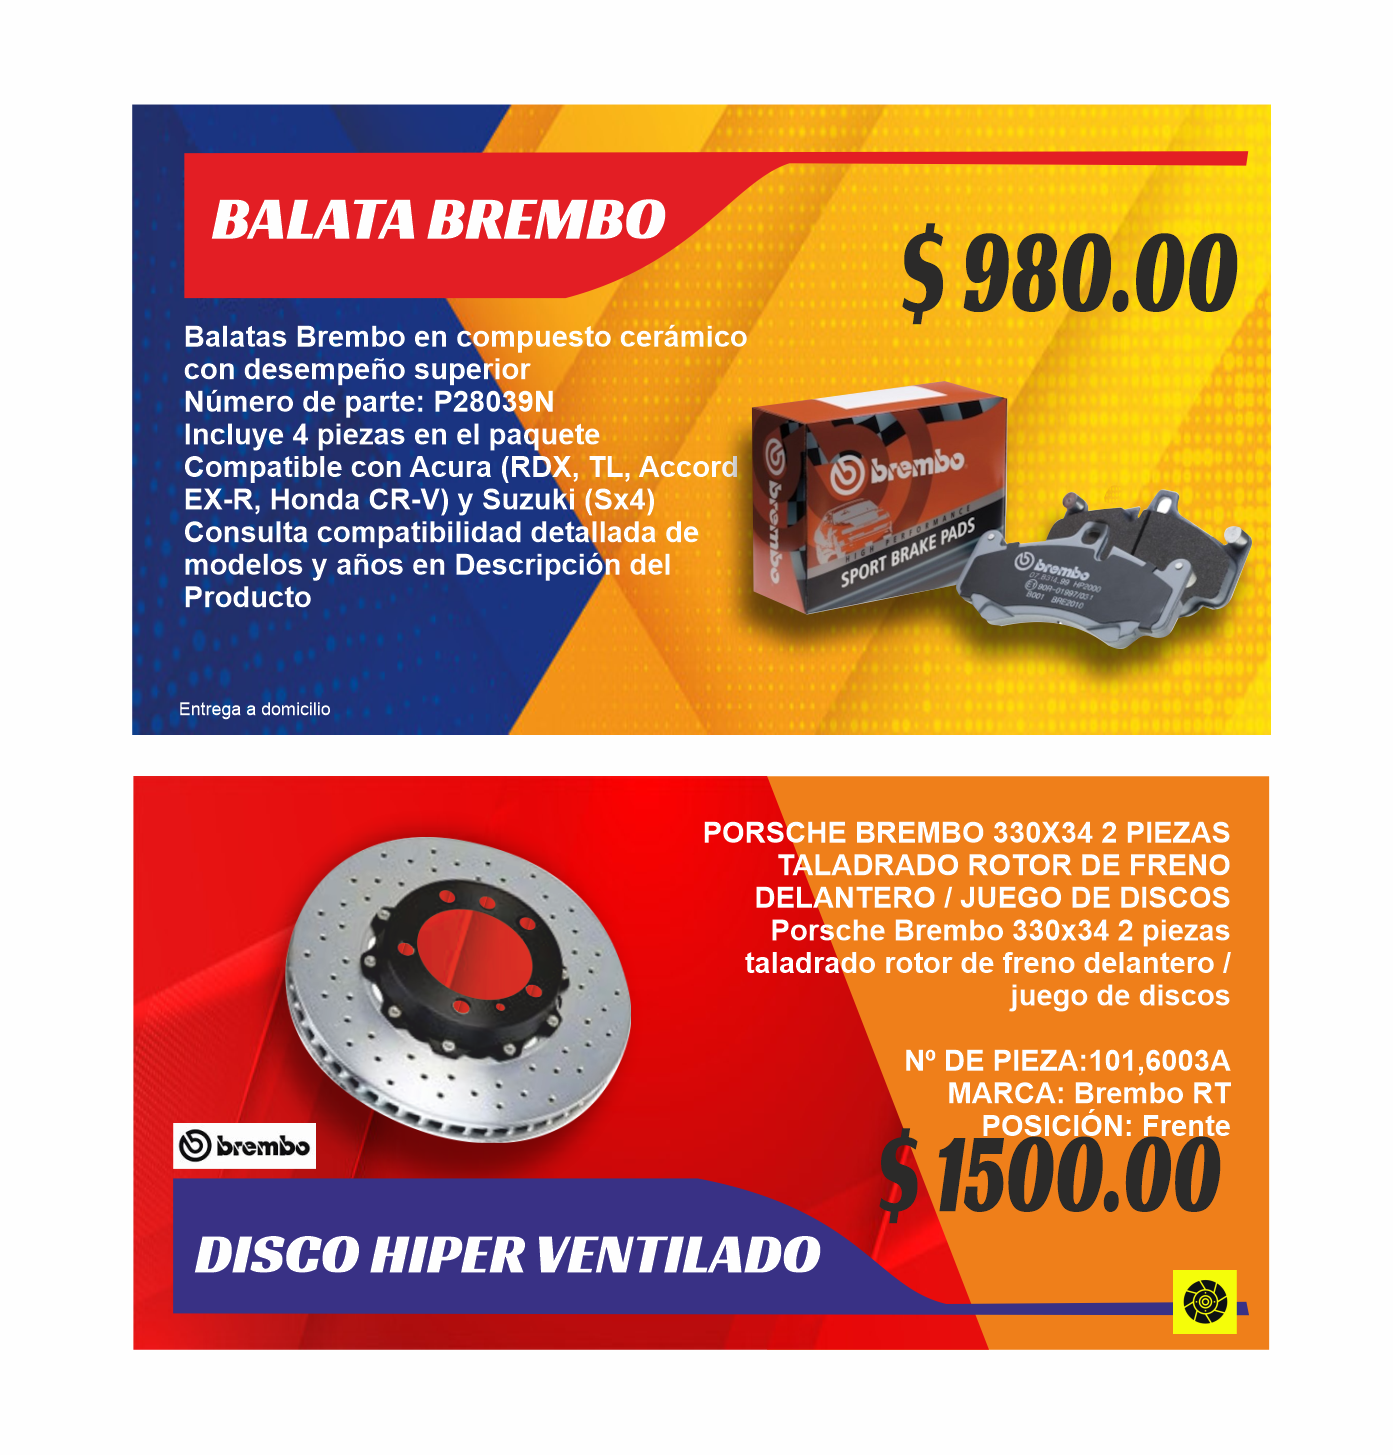
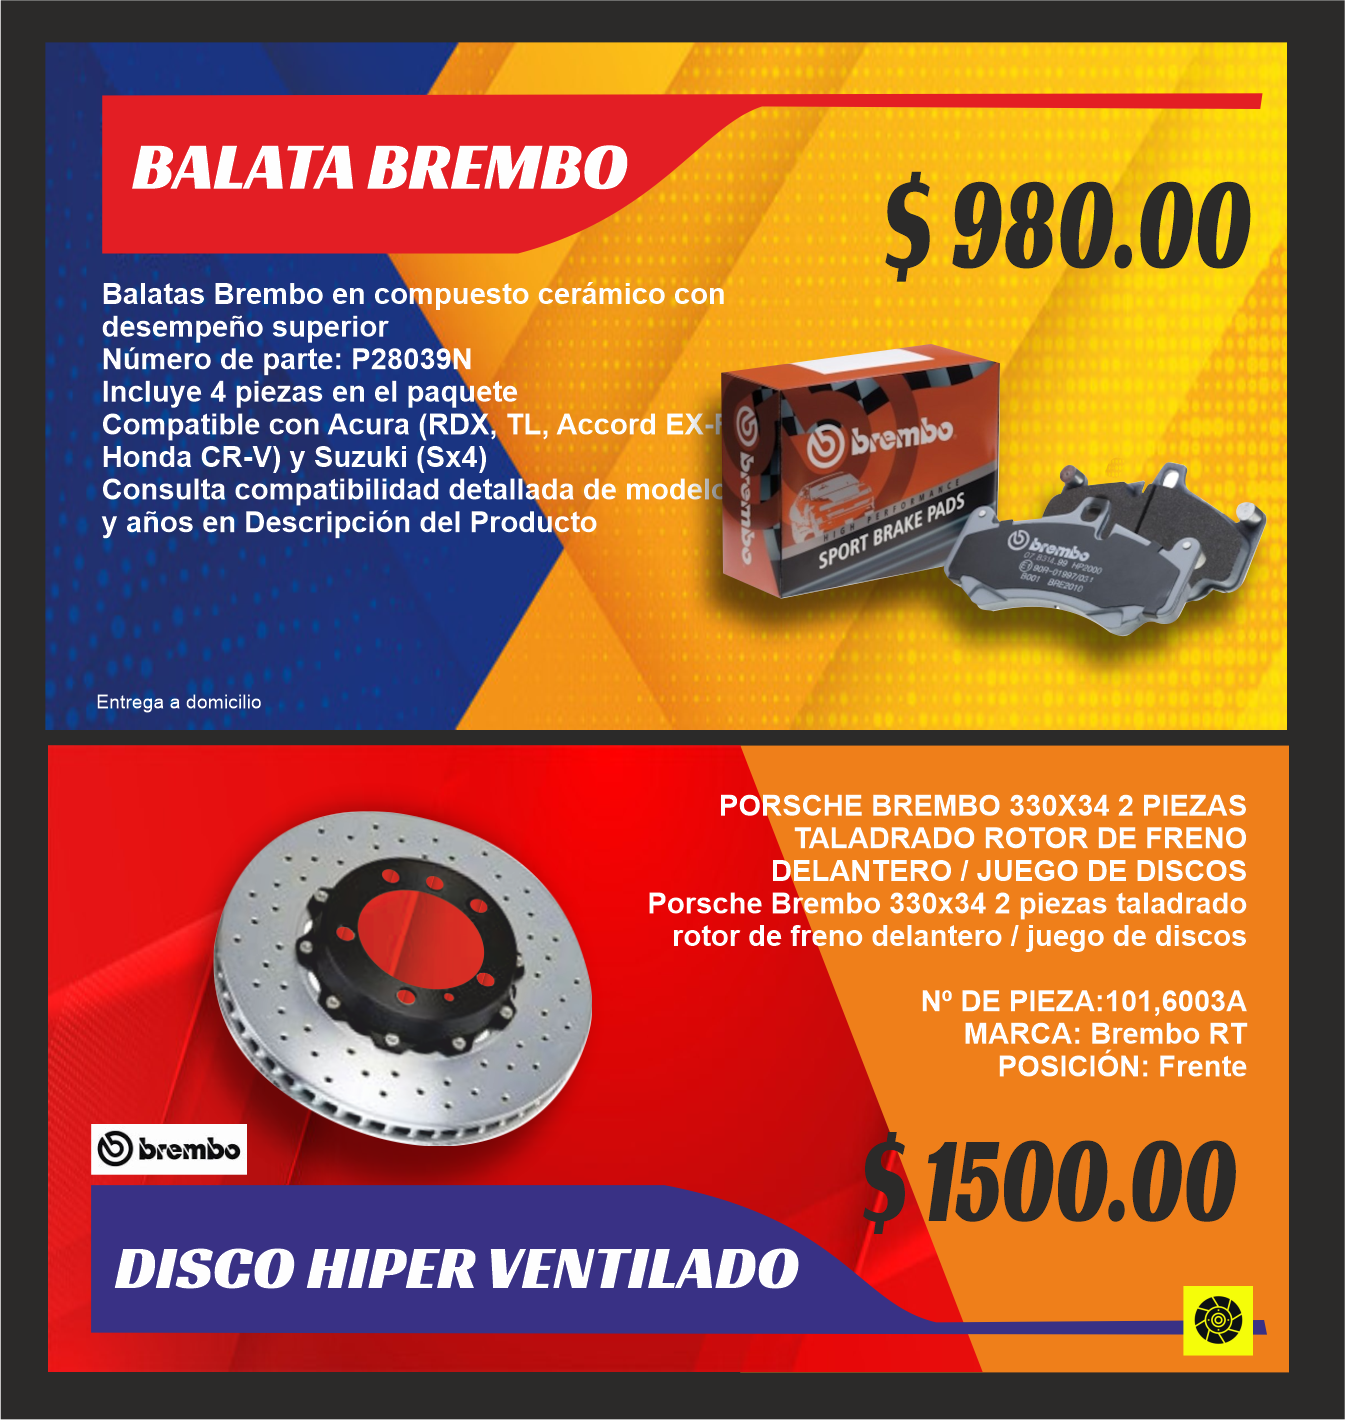
Auto frenos v17

diff --git a/estilospromociones.css b/estilospromociones.css
@@ -1,6 +1,6 @@
 :root {
-	--rojo: hsl(0, 83%, 32%);
-	--fondo: rgb(255, 255, 255);
+	--rojo: hsl(0, 94%, 43%);
+	--fondo: rgb(0, 0, 0);
 	/* text-shadow: 1px 2px 2px rgb(122, 121, 121); */
 }
 
@@ -40,14 +40,14 @@ header .logotipo {
 }
 /* -----------------------------LETRA DEL MENU ---------------------------- */
 header nav a {
-	color: hsl(0, 83%, 32%);
+	color: hsl(0, 0%, 100%);
 	text-decoration: none;
 	margin-right: 15px;
 
 }
 header nav a:hover,
 header nav a.activo {
-	color: #000000;
+	color: hsl(251, 100%, 50%);
 }
 
 /* ---- ----- ----- FONDO ----- ----- ----- */
@@ -60,6 +60,7 @@ header nav a.activo {
 	margin-bottom: 2.12em;
 	display: flex;
 	align-items: end;
+	
 }
 /* ---------------------------------ARRIBA FOOTER------------------------ */
 .pelicula-principal .contenedor {
@@ -140,7 +141,7 @@ header nav a.activo {
 	}
 
 	.pelicula-principal {
-		font-size: 9px;
+		font-size: 7.5px;
 	}
 
 	.pelicula-principal .descripcion {

diff --git a/css/estilos.css b/css/estilos.css
@@ -1,6 +1,6 @@
 :root {
-	--rojo: hsl(0, 83%, 32%);
-	--fondo: rgb(255, 255, 255);
+	--rojo: hsl(0, 94%, 43%);
+	--fondo: rgb(0, 0, 0);
 	/* text-shadow: 1px 2px 2px rgb(122, 121, 121); */
 }
 
@@ -38,14 +38,14 @@ header .logotipo {
 }
 
 header nav a {
-	color: hsl(0, 83%, 32%);
+	color: hsl(0, 0%, 100%);
 	text-decoration: none;
 	margin-right: 15px;
 }
 
 header nav a:hover,
 header nav a.activo {
-	color: #000000;
+	color: hsl(251, 100%, 50%);
 }
 
 /* ---- ----- ----- Pelicula Principal ----- ----- ----- */
@@ -144,7 +144,7 @@ header nav a.activo {
 .peliculas-recomendadas .contenedor-principal .flecha-derecha {
 	position: absolute;
 	border: none;
-	background: rgba(0,0,0,0.3);
+	background: rgba(255, 255, 255, 0.3);
 	font-size: 40px;
 	height: 50%;
 	top: calc(50% - 25%);

diff --git a/estilocatalogo.css b/estilocatalogo.css
@@ -1,6 +1,6 @@
 :root {
-	--rojo: hsl(0, 83%, 32%);
-	--fondo: #ffffff;
+	--rojo: hsl(0, 94%, 43%);
+	--fondo: #000000;
 	/* text-shadow: 1px 2px 2px rgb(122, 121, 121); */
 }
 
@@ -38,13 +38,13 @@ header .logotipo {
 }
 /* -----------------------------LETRA DEL MENU ---------------------------- */
 header nav a {
-	color: hsl(0, 83%, 32%);
+	color: hsl(0, 0%, 100%);
 	text-decoration: none;
 	margin-right: 15px;
 }
 	header nav a:hover,
 	header nav a.activo {
-		color: #000000;
+		color: hsl(251, 100%, 50%);
 }
 
 /* ----------------------------- FOTOS DEL CATALOGO ----------------------------- */

diff --git a/QR.html b/QR.html
@@ -23,7 +23,7 @@
     <h2>CUPONERA QR 2022</h2>
     <div class="content"><br><br>
       <li>Promoción aplicable en tienda al pagar en efectivo</li>
-      <div class="social"><br><br><br><br><br><br><br><br><br><br>
+      <div class="social"><br><br><br><br><br><br><br><br><br><br><br><br>
       <a target="_blank" href="#"><span class="fab fa-facebook-f"></span></a>
       <!-- <a target="_blank" href="#"><span class="fab fa-twitter"></span></a>
       <a target="_blank" href="#"><span class="fab fa-instagram"></span></a> -->

diff --git a/index.html b/index.html
@@ -10,7 +10,7 @@
 <body>
 	<header>
 		<div class="contenedor">
-			<img src="img/1.1.jpg"
+			<img src="img/1.1.png" height="50px"
 			alt=""srcset="">
 			<h2 class="logotipo">Auto Frenos de México</h2>
 			<nav>

diff --git a/catalogo.html b/catalogo.html
@@ -13,7 +13,7 @@
     <header>
 		<main>
 			<div class="contenedor">
-				<img src="img/1.1.jpg"
+				<img src="img/1.1.png" height="50px"
 				alt=""srcset="">
 				<h2 class="logotipo">Catálogo</h2>
 				<nav>

diff --git a/promociones.html b/promociones.html
@@ -11,7 +11,7 @@
 <body>
     <header>
 		<div class="contenedor">
-			<img src="img/1.1.jpg"
+			<img src="img/1.1.png" height="50px"
 			alt=""srcset="">
 			<h2 class="logotipo">Promociones</h2>
 			<nav>
